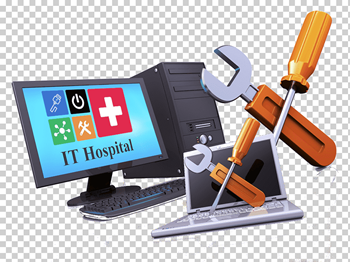
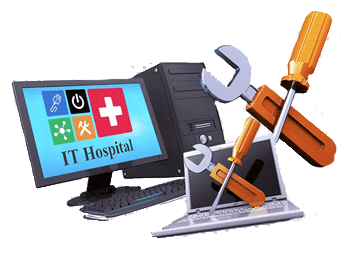
atualizado

Changed region(s): [[0.0, 0.0, 1.0, 1.0], [0.6, 0.3664, 0.7714, 0.5496], [0.3143, 0.6412, 0.5143, 0.7328]]

diff --git a/index.html b/index.html
@@ -4,14 +4,14 @@
     <meta charset="UTF-8">
     <meta name="viewport" content="width=device-width, initial-scale=1.0">
     <title>Exercício-Prático</title>
-    <link rel="shortcut icon" href="" type="image/x-icon">
+    <link rel="shortcut icon" href="imagem/favicon/favicon.ico" type="image/x-icon">
     <link rel="stylesheet" href="estilos/style.css">
     <link rel="stylesheet" href="estilos/media-query.css">
 </head>
 <body>
     <main>
         <header>
-            <img src="imagem/transparent-.png" alt="imagens">
+            <img src="imagem/trans.png" alt="imagens">
             <h1>Site de Exemplo</h1>
             <p>Lorem ipsum dolor sit amet consectetur adipisicing elit.</p>
         </header>
@@ -29,7 +29,7 @@
         <section>
             <article class="cp">
                 <h2>Conteúdo Pricipal</h2>
-                <img src="imagem/chnician.jpg" alt="imagens de computador">
+                <img src="imagem/chnician.png" alt="imagens de computador">
                 <p>
                     Lorem ipsum dolor sit amet consectetur adipisicing elit. Consequuntur minus, ipsa sequi accusantium a molestiae est, quo voluptas voluptate eius repellat odit, ea suscipit possimus quisquam voluptatibus! Ipsum, fugiat tempora. Lorem ipsum dolor sit amet consectetur adipisicing elit. Iusto et deleniti dolor ratione labore. Veniam expedita, tenetur exercitationem sunt dolorum ducimus et dicta, nam aspernatur porro quaerat magnam, provident iusto?
                 </p>
